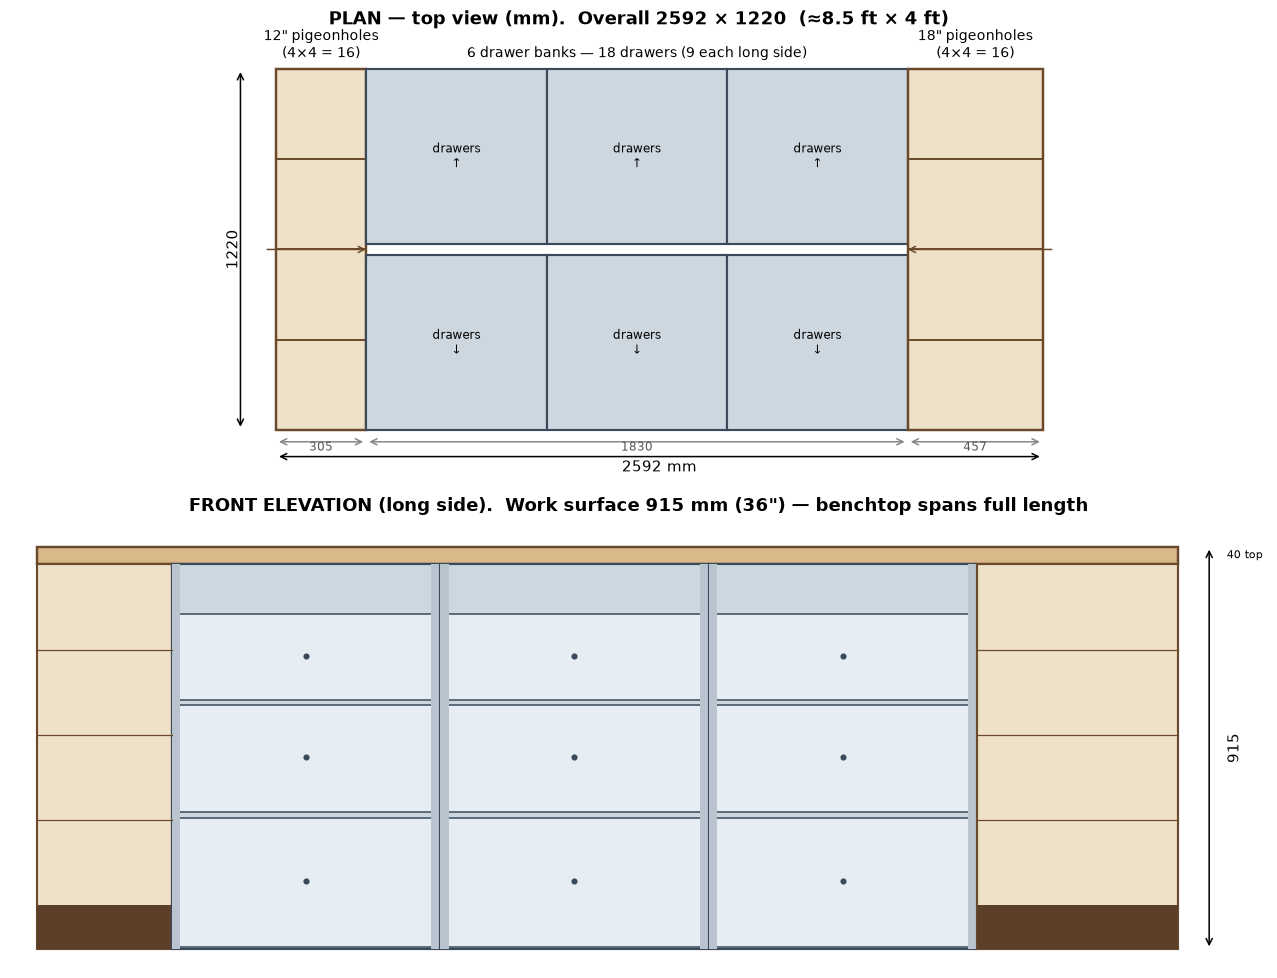
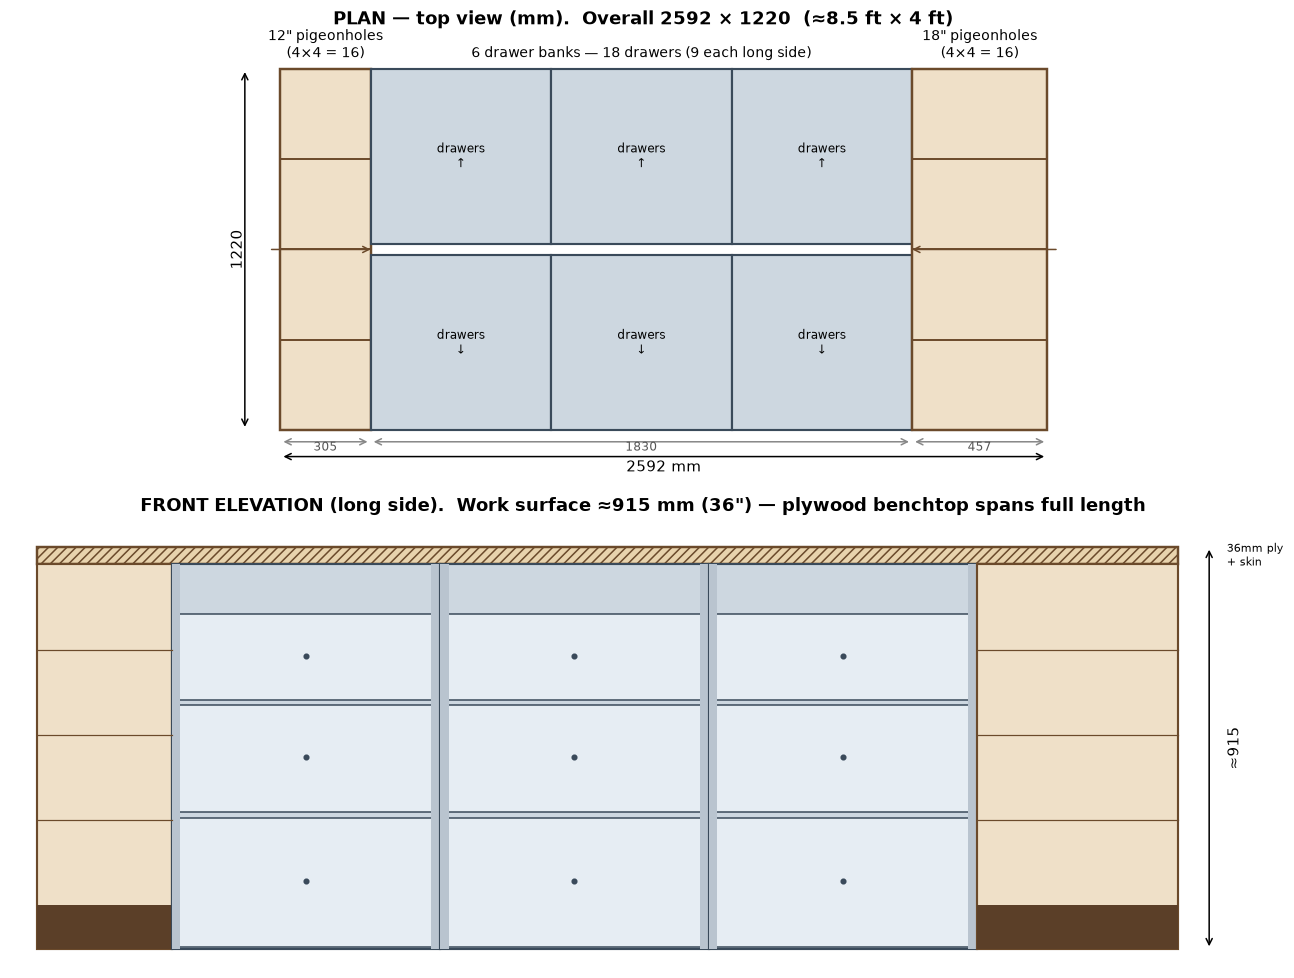
Switch benchtop from solid maple to a shop-built plywood slab
Per request, the top is now plywood: two laminated 18mm birch-ply layers (36mm
core) with staggered seams and a solid-maple edge nosing, plus an optional 6mm
replaceable tempered-hardboard skin. Lighter, flatter, cheaper than the maple
glue-up; screwed down (stable sheet goods, no figure-8 float).

- Removed benchtop.json (solid-maple cutting_board glue-up); the plywood top is
  plain sheet goods, given as cutlist_benchtop.csv rather than a woodai spec.
- README + assembly_plan.png updated (top material, fastening, height ~915mm,
  cost ~$4,840).

Claude-Session: https://claude.ai/code/session_0163MNA3NeErBaFLwMXv6DMe

diff --git a/designs/workshop_center_island/README.md b/designs/workshop_center_island/README.md
@@ -22,10 +22,10 @@ end and an 18″-deep one on the other**, all under one continuous benchtop.
 | **Drawers** | **18** — six banks of three graduated drawers, opening on **both** long sides |
 | **Pigeonholes** | **32** open cubbies — a 4×4 grid in each end cabinet, opening outward at the ends |
 | **Drawer motion** | **No metal slides** — traditional side-hung **wooden runners** |
-| **Primary wood** | Hard maple (banks/top); birch plywood (pigeonhole carcasses) |
+| **Primary wood** | Hard maple (drawer banks); **birch plywood** (benchtop core + pigeonhole carcasses) |
 | **Joinery** | M&T frames, **dovetailed** drawer boxes, **dadoed** cubby dividers/shelves |
-| **Est. cost** | ≈ **$4,890** — banks ≈ $2,530 + pigeonholes ≈ $1,710 + benchtop ≈ $650 |
-| **Est. shop time** | ≈ 120 h banks + ~35 h pigeonholes + ~15 h benchtop (advanced) |
+| **Est. cost** | ≈ **$4,840** — banks ≈ $2,530 + pigeonholes ≈ $1,710 + plywood benchtop ≈ $600 |
+| **Est. shop time** | ≈ 120 h banks + ~35 h pigeonholes + ~10 h benchtop (advanced) |
 
 ## Why this layout
 
@@ -73,13 +73,21 @@ ball-bearing slide.
   mm tenons) — the joint that resists the racking that kills legged furniture.
 - **Assembly:** banks are screwed to each other along their touching faces and
   lag-screwed up into the benchtop, so the island behaves as one heavy unit.
-- **Benchtop:** a **40 mm edge-grain laminated hard-maple slab**, now
-  **2592 × 1220 mm** so it runs unbroken over the drawer banks *and* both
-  pigeonhole ends (~32 strips of 38 mm stock, ~54 bd ft). It is fastened down
-  with **figure-8 / Z-clips** so the solid top can expand and contract across its
-  width without cracking. *(An 8.5-ft solid top is a big glue-up; if you'd rather,
-  keep the 1830 mm top over the banks and give each end cabinet its own flush
-  40 mm top — the seams fall at the ends where you work least.)*
+- **Benchtop:** a **shop-built plywood slab**, 2592 × 1220 mm, running unbroken
+  over the drawer banks *and* both pigeonhole ends. **Two layers of 18 mm birch
+  plywood** are glued and screwed into a **36 mm** core — lay the two butt seams
+  at **opposite ends so they stagger** and the top stays dead flat and stiff (it's
+  continuously supported by the cabinets, so it never spans unsupported). A
+  **40 mm solid-maple edge nosing** wraps and protects the plywood edges and gives
+  you something to clamp against. Screw it down to the bank/cabinet tops through
+  slotted holes (plywood is stable — no wood-movement worry like a solid top).
+  - **Optional replaceable skin:** a **6 mm tempered-hardboard** sacrificial
+    surface, **screwed (not glued)** on top so you can peel it off and swap it
+    when it gets chewed up. With the skin the surface sits ~917 mm (36″); without
+    it, ~911 mm — both "around 3 ft."
+
+  Plywood buys you a lighter, flatter, cheaper top than the solid-maple glue-up,
+  and the hardboard skin means the real work surface is a $25 consumable.
 
 ## End pigeonhole cabinets
 
@@ -108,20 +116,21 @@ edges (and swap to maple ply) if you want them to match the maple bench.
 
 ## Materials & wood movement
 
-Everything shown is **hard maple** — the right wood for a bench (hard, tough,
+The **drawer banks** are **hard maple** — the right wood for a bench (hard, tough,
 heavy) and specifically for wooden runners, which need a dense, stable species.
-Two deliberate movement decisions:
+The **benchtop and pigeonhole carcasses are plywood** (stable sheet goods).
+Movement decisions that matter:
 
-- The **benchtop floats** on figure-8 fasteners — never rigidly screwed across
-  its width.
+- The **plywood benchtop** doesn't move, so it's simply **screwed down** to the
+  cabinet tops (through slightly slotted holes) — no figure-8 float needed.
 - Drawer **bottoms are 6 mm plywood** (dimensionally stable) in a groove.
 
-**Cost / weight option:** an all-maple island is an heirloom (and heavy, which is
-a *feature* for a center table). To cut roughly a third of the cost and a lot of
-weight, build the **carcasses and drawer boxes from Baltic-birch plywood** and
-keep solid maple only for the legs, runners, drawer fronts, and benchtop. Wooden
-runners still work — just glue a solid-maple wear strip where the ply drawer side
-rides.
+**Further cost / weight option:** the drawer banks are still solid maple (an
+heirloom, and heavy — a *feature* for a center table). To cut roughly a third
+more cost and weight, build the **bank carcasses and drawer boxes from
+Baltic-birch plywood** too, keeping solid maple only for the legs, runners, and
+drawer fronts. Wooden runners still work — just glue a solid-maple wear strip
+where the ply drawer side rides.
 
 ## Per-bank cut list (×6 banks)
 
@@ -150,7 +159,7 @@ Full machine-readable lists: [`cutlist_one_bank.csv`](cutlist_one_bank.csv),
 ## Hardware
 
 - **18 × bar pulls** (one per drawer) — the *only* purchased hardware on the base.
-- **~40 × figure-8 / Z-clip** tabletop fasteners (benchtop attachment).
+- Benchtop: **wood screws** into the cabinet tops (plywood is stable — no clips).
 - Pigeonholes: assembly/back screws only — **no pins** (shelves are dadoed).
 - **No drawer slides. No slide screws. No hinges.**
 
@@ -166,10 +175,9 @@ The design is a parametric spec. From the repo root:
 woodai build designs/workshop_center_island/workshop_island.json  --estimate --joinery
 woodai build designs/workshop_center_island/pigeonhole_12in.json  --estimate
 woodai build designs/workshop_center_island/pigeonhole_18in.json  --estimate
-woodai build designs/workshop_center_island/benchtop.json         --estimate
 ```
 
-All four validate with **0 errors and 0 part interferences**. Edit the JSON
+All three validate with **0 errors and 0 part interferences**. Edit the JSON
 (drawer graduation, cubby grid, wood species, sizes) and rebuild to explore
 variations.
 
@@ -177,7 +185,9 @@ variations.
 
 The island is expressed as six drawer-bank modules (the DSL's `nightstand` type
 with `slide_type: "wood"`, which is the only drawer primitive that models
-slide-free wooden runners). The 40 mm benchtop that caps and unifies them is a
-separate glue-up (`benchtop.json`) — in the tool a single top can't span across
-independent modules, so it's specified and costed on its own. Physically it's one
-slab lagged down over all six banks.
+slide-free wooden runners) and the two pigeonhole cabinets as columns of open
+`bookcase` boxes. The **plywood benchtop** that caps and unifies everything isn't
+a parametric spec — it's just two laminated sheets and an edge, continuously
+supported by the cabinets, so it's given as a plain sheet-goods cut list
+([`cutlist_benchtop.csv`](cutlist_benchtop.csv)) rather than a `woodai` build.
+Physically it's one slab screwed down over all eight cabinets.
